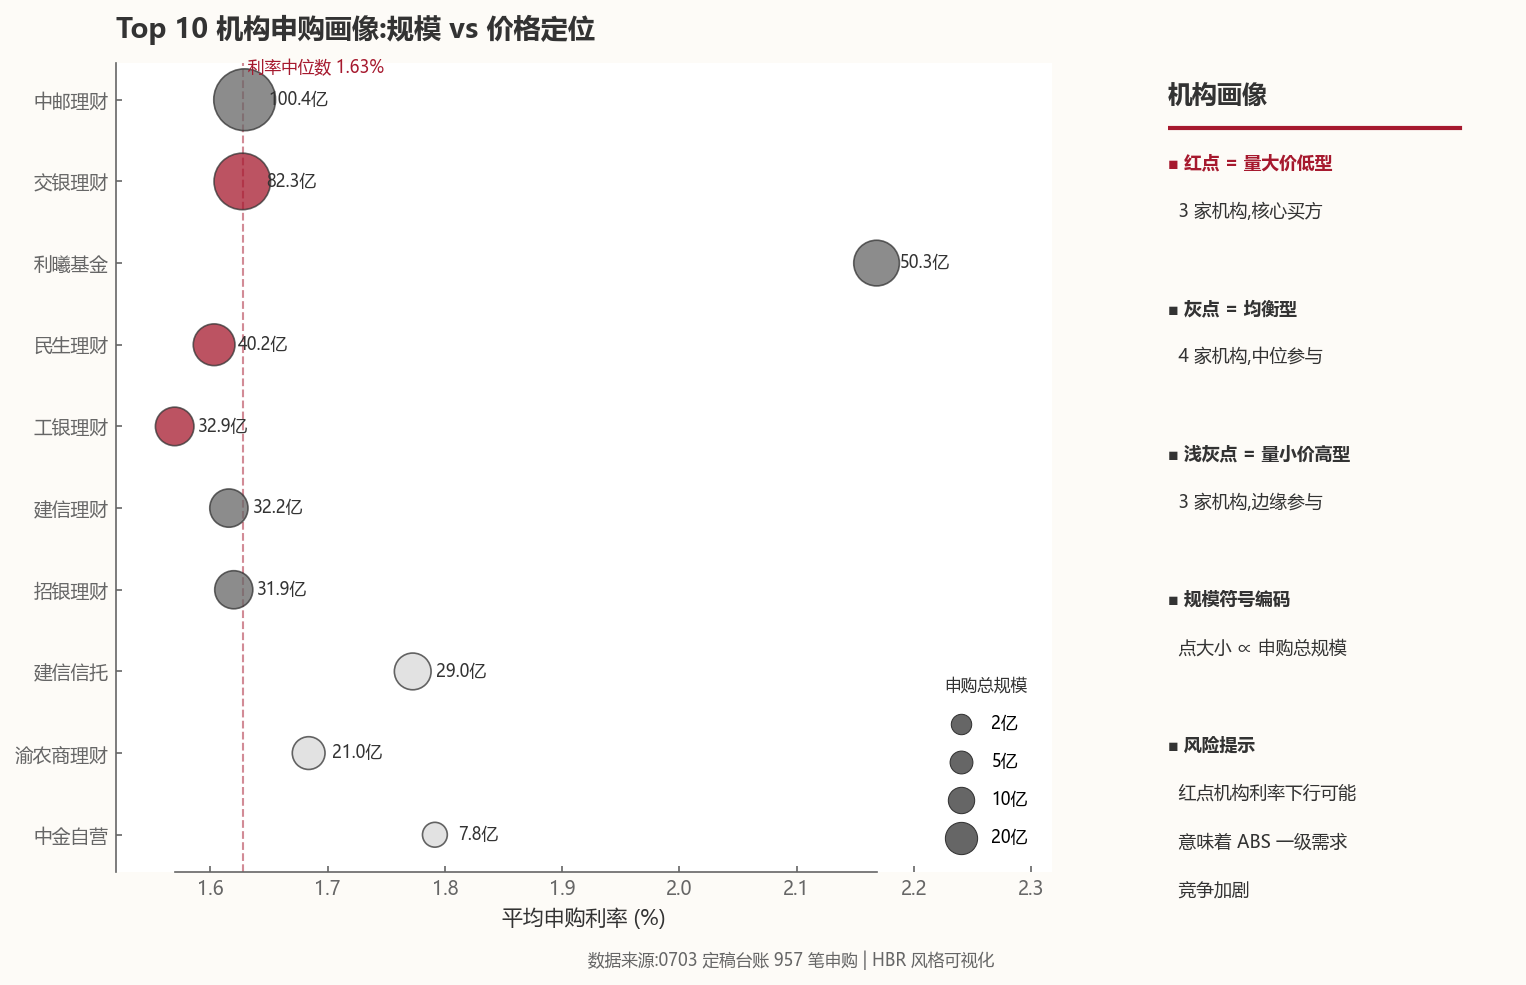
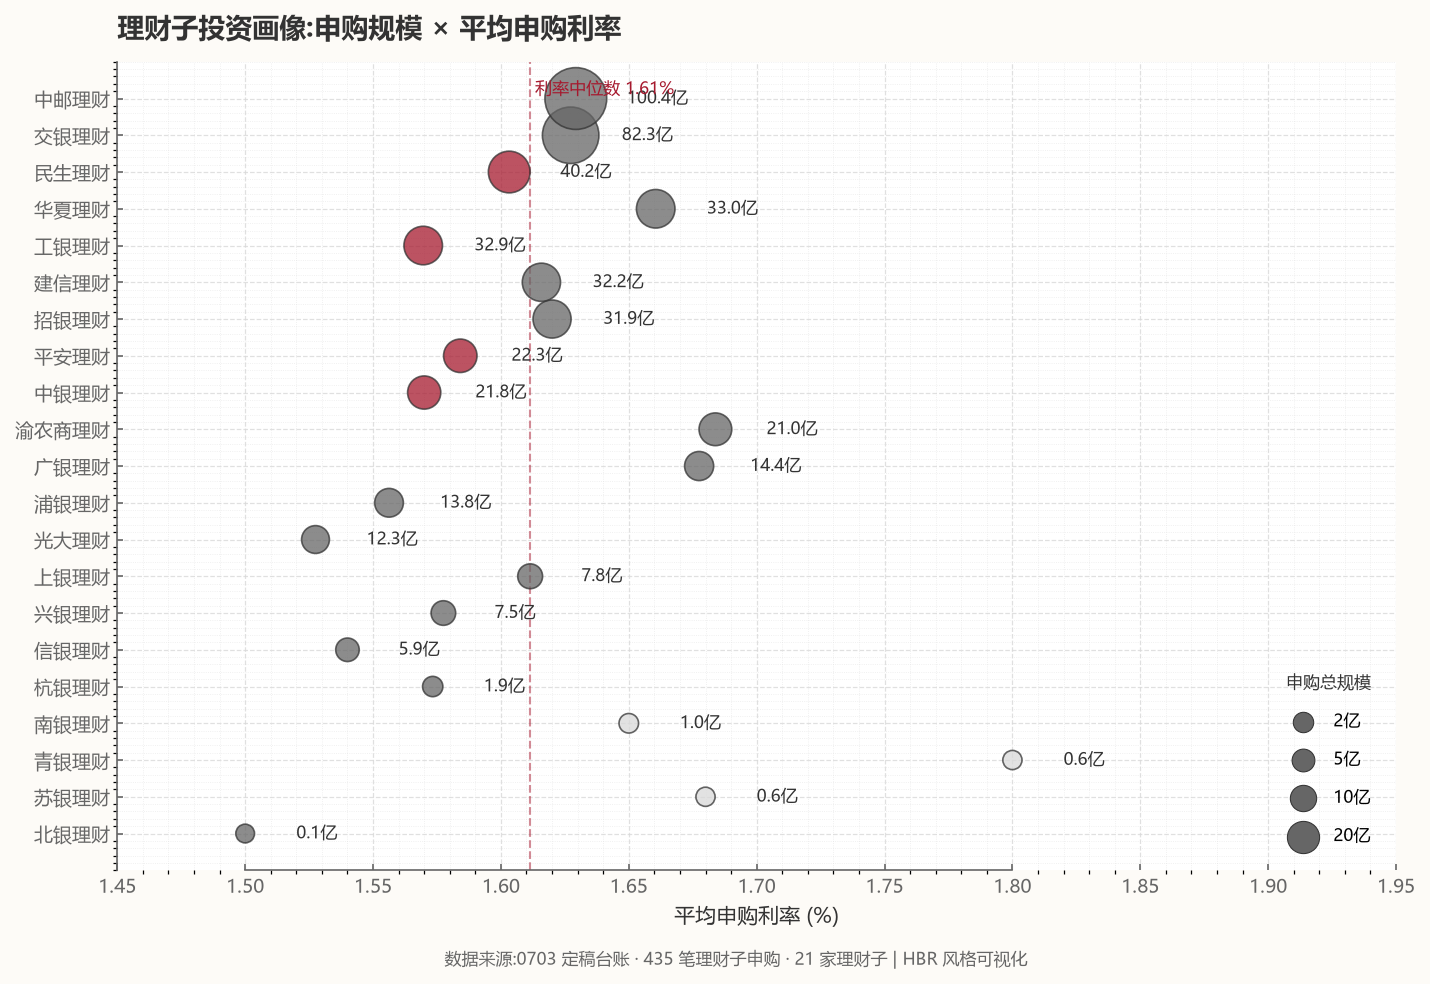
feat(lab): fig5 理财子投资画像 + 横轴步长加密 + 虚线网格
fig5_hbr_composite.py 4 项改动:
- 纵轴机构改为 21 家理财子(str.endswith('理财'))
- 加虚线网格(主+次,主网格 linewidth=0.6 alpha=0.8,次网格 linewidth=0.4 alpha=0.5)
- 删除机构画像 sidebar,图变成单图
- 标题改为'理财子投资画像:申购规模 × 平均申购利率'
- 横轴步长 0.05%(MultipleLocator) + minorticks_on 加密刻度

fig4_new_welizhi_matrix.py:
- 修复 import 路径(加 scripts/ 到 sys.path)
- 移除未使用的 gridspec 导入

diff --git a/scripts/lab/fig4_new_welizhi_matrix.py b/scripts/lab/fig4_new_welizhi_matrix.py
@@ -8,12 +8,14 @@
 - 标题:理财子×资产类型投资规模矩阵
 """
 import os, sys
+# 同时把 scripts/ 和 lab/ 加入 path
+_SCRIPTS_DIR = os.path.dirname(os.path.dirname(os.path.abspath(__file__)))
+sys.path.insert(0, _SCRIPTS_DIR)
 sys.path.insert(0, os.path.dirname(os.path.abspath(__file__)))
 
 import pandas as pd
 import numpy as np
 import matplotlib.pyplot as plt
-import matplotlib.gridspec as gridspec
 from matplotlib.colors import LinearSegmentedColormap
 from abs_common import preprocess_xlsx_for_pandas
 
@@ -111,8 +113,8 @@ def main():
     print(f'\n理财子数量: {len(inst_total)}')
     print(f'理财子列表:\n{inst_total}')
 
-    # 资产分类顺序
-    asset_order = ['赊销白条', '现金贷', '企业主贷', '保理', '金采', '其他']
+    # 资产分类顺序(用户指定)
+    asset_order = ['保理', '赊销白条', '现金贷', '金采', '企业主贷', '其他']
 
     # 透视表:行=理财子,列=资产分类,值=认购份额合计
     pivot = df.groupby(['认购机构', '资产分类'])['认购份额'].sum().unstack(fill_value=0)
@@ -121,12 +123,9 @@ def main():
     print(f'\n=== 透视表 ===')
     print(pivot)
 
-    # 绘图
-    fig = plt.figure(figsize=(13, max(7, len(pivot) * 0.5 + 2)), facecolor=HBR_CREAM)
-    gs = gridspec.GridSpec(1, 2, width_ratios=[3.2, 1.1], wspace=0.18)
-    ax = fig.add_subplot(gs[0, 0])
-    ax_sidebar = fig.add_subplot(gs[0, 1])
-    ax_sidebar.axis('off')
+    # 绘图:单栏全宽主图(无 sidebar)
+    fig, ax = plt.subplots(figsize=(11, max(7, len(pivot) * 0.45 + 2)),
+                           facecolor=HBR_CREAM)
 
     data = pivot.values
     vmax = data.max()
@@ -160,12 +159,10 @@ def main():
     for spine in ax.spines.values():
         spine.set_visible(False)
 
+    # 标题(纯标题,无副标题,避免与图像重叠)
     ax.set_title('理财子×资产类型投资规模矩阵',
                  fontsize=14, color=HBR_CHARCOAL, fontweight='bold',
                  pad=12, loc='left')
-    ax.text(0, -1.2, '发行场所:上交所 / 深交所 / 银行间  |  金额单位:亿元(V列认购份额合计)',
-            fontsize=9, color=HBR_GRAY, style='italic',
-            transform=ax.transData)
 
     # colorbar
     cbar = plt.colorbar(im, ax=ax, shrink=0.7, pad=0.02)
@@ -173,58 +170,13 @@ def main():
     cbar.ax.tick_params(labelsize=8, colors=HBR_GRAY, length=0)
     cbar.outline.set_visible(False)
 
-    # Sidebar
-    ax_sidebar.text(0, 0.95, '关键洞察', fontsize=12, color=HBR_CHARCOAL,
-                    fontweight='bold', transform=ax_sidebar.transAxes)
-    ax_sidebar.plot([0, 0.85], [0.92, 0.92], color=HBR_CRIMSON,
-                    linewidth=2, transform=ax_sidebar.transAxes)
+    # 底部备注(发行场所 + 数据来源)
+    plt.figtext(0.5, 0.02,
+                '发行场所:上交所 / 深交所 / 银行间  |  金额单位:亿元(V列认购份额合计)  |  '
+                '数据来源:0703 定稿台账',
+                ha='center', fontsize=8.5, color=HBR_GRAY, style='italic')
 
-    # 洞察计算
-    total = pivot.values.sum()
-    most_diverse_inst = (pivot > 0).sum(axis=1).idxmax()
-    most_diverse_n = (pivot > 0).sum(axis=1).max()
-    biggest_inst = pivot.sum(axis=1).idxmax()
-    biggest_amt = pivot.sum(axis=1).max()
-    top_asset = pivot.sum(axis=0).idxmax()
-    top_asset_amt = pivot.sum(axis=0).max()
-    sparsity = (pivot.values == 0).sum() / pivot.values.size * 100
-
-    insights = [
-        f'■ 矩阵规模',
-        f'  {len(pivot)} 家理财子 × 6 资产类型',
-        f'  总规模 {total:.1f} 亿元',
-        f'',
-        f'■ 最大理财子',
-        f'  {biggest_inst}',
-        f'  合计 {biggest_amt:.1f} 亿元',
-        f'',
-        f'■ 最多元理财子',
-        f'  {most_diverse_inst}',
-        f'  覆盖 {most_diverse_n}/6 资产',
-        f'',
-        f'■ 主流资产',
-        f'  {top_asset} ({top_asset_amt:.1f}亿)',
-        f'',
-        f'■ 矩阵稀疏度',
-        f'  {sparsity:.0f}% 单元为 0',
-        f'  反映理财子资产偏好分化',
-        f'',
-        f'■ Crimson 单元',
-        f'  规模 > {vmax*0.7:.1f} 亿的强参与',
-    ]
-    for i, line in enumerate(insights):
-        color = HBR_CRIMSON if line.startswith('■ 最大') or line.startswith('■ 主流') else HBR_CHARCOAL
-        weight = 'bold' if line.startswith('■') else 'normal'
-        ax_sidebar.text(0, 0.87 - i * 0.055, line,
-                        fontsize=8.5, color=color, fontweight=weight,
-                        transform=ax_sidebar.transAxes,
-                        family='sans-serif')
-
-    plt.figtext(0.5, 0.01,
-                '数据来源:0703 定稿台账 | 筛选:发行场所∈{上交所,深交所,银行间} + 理财子 | HBR 风格',
-                ha='center', fontsize=8, color=HBR_GRAY, style='italic')
-
-    plt.tight_layout(rect=[0, 0.02, 1, 1])
+    plt.tight_layout(rect=[0, 0.04, 1, 1])
     plt.savefig(OUTPUT, dpi=150, bbox_inches='tight', facecolor=HBR_CREAM)
     print(f'\n已保存: {OUTPUT}')
 

diff --git a/scripts/lab/fig5_hbr_composite.py b/scripts/lab/fig5_hbr_composite.py
@@ -1,7 +1,7 @@
-"""fig5_hbr_composite.py — HBR风格:机构申购画像综合视图
+"""fig5_hbr_composite.py — HBR风格:理财子投资画像
 
-HBR 样式:主图(散点+规模编码) + sidebar(机构画像洞察)
-洞察:机构分层——量大价低型 / 量小价高型 / 均衡型
+HBR 样式:主图(散点+规模编码),纵轴=理财子(以"理财"结尾的机构)
+洞察:理财子申购规模 × 平均申购利率
 """
 import os, sys
 sys.path.insert(0, os.path.dirname(os.path.abspath(__file__)))
@@ -9,7 +9,6 @@ from load_data import load_wxy_df
 
 import matplotlib.pyplot as plt
 import numpy as np
-import matplotlib.gridspec as gridspec
 
 plt.rcParams['font.family'] = 'sans-serif'
 plt.rcParams['font.sans-serif'] = ['Microsoft YaHei', 'SimHei', 'DejaVu Sans']
@@ -28,23 +27,19 @@ OUTPUT = os.path.join(os.path.dirname(os.path.abspath(__file__)),
 
 def main():
     df = load_wxy_df()
-    # Top 10 机构
-    top_inst = df['institution'].value_counts().head(10).index.tolist()
-    sub = df[df['institution'].isin(top_inst)].copy()
+    # 筛选理财子(以"理财"结尾的机构)
+    df_wlz = df[df['institution'].str.endswith('理财')].copy()
 
     # 机构汇总
-    summary = sub.groupby('institution').agg(
+    summary = df_wlz.groupby('institution').agg(
         total_size=('size', 'sum'),
         mean_rate=('rate_pct', 'mean'),
         n=('size', 'count'),
     ).reset_index()
     summary = summary.sort_values('total_size', ascending=True)
 
-    fig = plt.figure(figsize=(12, 7), facecolor=HBR_CREAM)
-    gs = gridspec.GridSpec(1, 2, width_ratios=[3, 1.1], wspace=0.18)
-    ax = fig.add_subplot(gs[0, 0])
-    ax_sidebar = fig.add_subplot(gs[0, 1])
-    ax_sidebar.axis('off')
+    fig = plt.figure(figsize=(11, 7), facecolor=HBR_CREAM)
+    ax = fig.add_subplot(111)
 
     # 散点:横轴=平均利率,纵轴=机构(按规模升序),点大小=总规模
     sizes = (summary['total_size'] / summary['total_size'].max() * 800 + 80).values
@@ -80,9 +75,17 @@ def main():
     ax.set_yticklabels(summary['institution'].values,
                        fontsize=9, color=HBR_CHARCOAL)
     ax.set_xlabel('平均申购利率 (%)', fontsize=10, color=HBR_CHARCOAL)
-    ax.set_title('Top 10 机构申购画像:规模 vs 价格定位',
+    ax.set_title('理财子投资画像:申购规模 × 平均申购利率',
                  fontsize=13, color=HBR_CHARCOAL, fontweight='bold',
                  pad=12, loc='left')
+
+    # 虚线网格(主+次,加密)
+    ax.grid(True, which='major', linestyle='--', linewidth=0.6,
+            color=HBR_LIGHT_GRAY, alpha=0.8, zorder=1)
+    ax.grid(True, which='minor', linestyle=':', linewidth=0.4,
+            color=HBR_LIGHT_GRAY, alpha=0.5, zorder=1)
+    ax.set_axisbelow(True)
+    ax.minorticks_on()
 
     # 样式
     for spine_name in ['top', 'right']:
@@ -91,10 +94,12 @@ def main():
     ax.spines['bottom'].set_color(HBR_GRAY)
     ax.tick_params(direction='in', colors=HBR_GRAY, labelsize=9, length=3)
 
-    # range frame
+    # range frame + 横轴步长 0.05
+    import matplotlib.ticker as mticker
     x_min, x_max = summary['mean_rate'].min(), summary['mean_rate'].max()
     ax.set_xlim(x_min - 0.05, x_max + 0.15)
     ax.spines['bottom'].set_bounds(x_min, x_max)
+    ax.xaxis.set_major_locator(mticker.MultipleLocator(0.05))
 
     # 图例(点大小说明)
     legend_sizes = [2, 5, 10, 20]
@@ -107,51 +112,13 @@ def main():
                     borderpad=1, scatterpoints=1)
     leg.get_title().set_color(HBR_CHARCOAL)
 
-    # Sidebar
-    ax_sidebar.text(0, 0.95, '机构画像', fontsize=12, color=HBR_CHARCOAL,
-                    fontweight='bold', transform=ax_sidebar.transAxes)
-    ax_sidebar.plot([0, 0.85], [0.92, 0.92], color=HBR_CRIMSON,
-                    linewidth=2, transform=ax_sidebar.transAxes)
-
-    # 分类统计
-    big_cheap = ((summary['total_size'] >= summary['total_size'].median()) &
-                 (summary['mean_rate'] <= summary['mean_rate'].median())).sum()
-    small_expensive = ((summary['total_size'] < summary['total_size'].median()) &
-                       (summary['mean_rate'] > summary['mean_rate'].median())).sum()
-    balanced = len(summary) - big_cheap - small_expensive
-
-    insights = [
-        f'■ 红点 = 量大价低型',
-        f'  {big_cheap} 家机构,核心买方',
-        f'',
-        f'■ 灰点 = 均衡型',
-        f'  {balanced} 家机构,中位参与',
-        f'',
-        f'■ 浅灰点 = 量小价高型',
-        f'  {small_expensive} 家机构,边缘参与',
-        f'',
-        f'■ 规模符号编码',
-        f'  点大小 ∝ 申购总规模',
-        f'',
-        f'■ 风险提示',
-        f'  红点机构利率下行可能',
-        f'  意味着 ABS 一级需求',
-        f'  竞争加剧',
-    ]
-    for i, line in enumerate(insights):
-        color = HBR_CRIMSON if line.startswith('■ 红点') else HBR_CHARCOAL
-        weight = 'bold' if line.startswith('■') else 'normal'
-        ax_sidebar.text(0, 0.87 - i * 0.06, line,
-                        fontsize=8.5, color=color, fontweight=weight,
-                        transform=ax_sidebar.transAxes,
-                        family='sans-serif')
-
     plt.figtext(0.5, 0.02,
-                '数据来源:0703 定稿台账 957 笔申购 | HBR 风格可视化',
+                f'数据来源:0703 定稿台账 · {len(df_wlz)} 笔理财子申购 · {len(summary)} 家理财子 | HBR 风格可视化',
                 ha='center', fontsize=8, color=HBR_GRAY, style='italic')
 
     plt.savefig(OUTPUT, dpi=150, bbox_inches='tight', facecolor=HBR_CREAM)
     print(f'已保存: {OUTPUT}')
+    print(f'理财子数量: {len(summary)} 家, 总申购笔数: {len(df_wlz)}')
 
 
 if __name__ == '__main__':